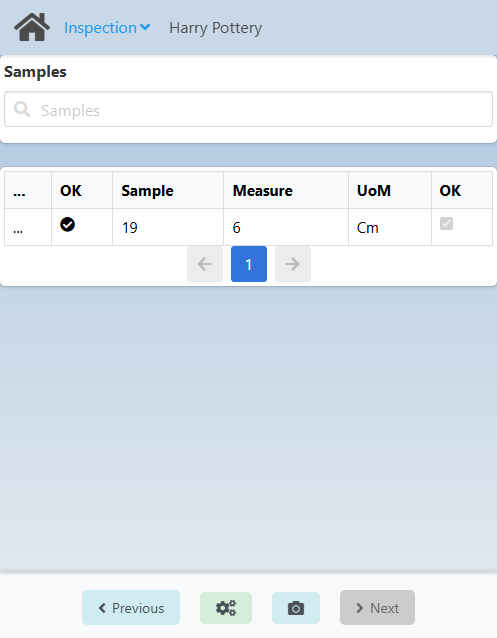
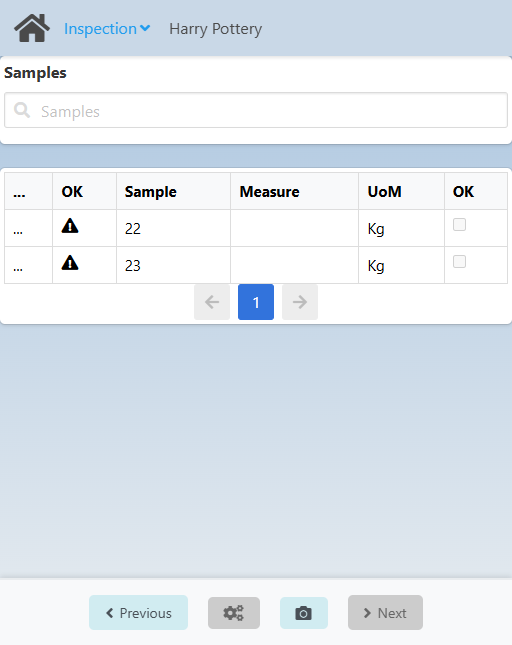
Update Inspection with new changes

diff --git a/docs/core_functions/inspection.md b/docs/core_functions/inspection.md
@@ -154,7 +154,9 @@ On this modal you can see and update other information on a **sample**.
 You can give a sample up to two release reasons using the **Release 1** and **Release 2** fields.
 
 :::info
-If you set **Release 1** to either **Released** or **Locked**, the **sample** will go away as completed.
+If you set **Release 1** to either **Released**, the sample will be released and removed from the list. You can only release it from here if the sample does not have measurements already saved.
+
+If you set **Release 1** to either **Locked**, the sample will be locked and removed from the list.
 :::
 
 **Release 2** can only be checked when **Release 1** is set to **Released.**
@@ -178,7 +180,6 @@ On this screen you can see a summary of the **tests** assigned to the selected s
 ![Tests summary screen](./img-inspection/sflow-tests-summary-screen.png)
 
 <CustomDetails summary="Table Reference">
-
 | Column   | Description                                                     |
 | -------- | --------------------------------------------------------------- |
 |          | Indication of passing                                           |
@@ -187,7 +188,6 @@ On this screen you can see a summary of the **tests** assigned to the selected s
 | Measure  | Value taken.                                                    |
 | UoM      | Unit of Measure, e.g. cm.                                       |
 | OK       | Indication of passing.                                          |
-
 </CustomDetails>
 
 You can use the search box on the top of the screen to filter tests by the **Pos** and **QC Order** values.
@@ -202,19 +202,19 @@ On the **Measurement** tab you can input the results for the test on a specific 
 
 ![Unique test summary measurement tab modal](./img-inspection/sflow-unique-test-sumamary-measurement-tab-modal.png)
 
-First, input the result that you got for this test. Use the **Value** field for that. Some tests will give you the conditions to pass. When the **value** meets those, the **OK** checkbox will automatically be ticked. You can always check/uncheck it manually.
+First, input the result that you got for this test. Use the **Value** field for that. Some tests will give you the conditions to pass. When the **value** meets those, the **OK** checkbox will automatically be ticked. This will depend on the inspection plan.
+
+:::info
+If you give **OKs** to all the tests for a sample, it will be **released** and removed from the list.
+:::
 
 Use the **Blockage Reason** field for giving the sample a reason for a blockage by choosing one of the options. For giving it extra comments using the <IIcon icon="ion:information-sharp" width="17" height="17"/> field below it.
 
 :::info
-If you give **OKs** or **Blockage Reasons** to all the tests for a sample, the sample will go away as completed.
+If you give **Blockage Reasons** to at least one test for a sample, it will be **locked** and removed from the list.
 :::
 
 You can also give the sample a **Valuation** from the list of options and extra information.
-
-:::danger[development]
-The **Valuation** field is yet to be configured.
-:::
 
 If you want to close the modal without making any changes, click the <IIcon icon="zondicons:close-solid" width="17" height="17"/> or **Cancel** buttons.
 
@@ -228,7 +228,7 @@ You can also add pictures as proof for the tests that were applied. For that, cl
 
 <CustomDetails summary="Add Picture Modal">
 
-On this modal you can **take a picture** of the samples, **link it** to the QC Order and **print a report**.
+On this modal you can **take a picture** of the samples and **link it** to the QC Order.
 
 First, you need to give the picture a name and then click **Confirm**.
 
@@ -242,7 +242,9 @@ If you want to close any of the modals without saving anything, click the <IIcon
 
 </CustomDetails>
 
-Once you are done with all the samples in the QC Order, click the <IIcon icon="fa:gears" width="17" height="17"/> button at the bottom to go to the [Create Activity](./inspection.md#create-activity) screen.
+Once you are done here, click **Previous** at the bottom to go back to the [Sample: Samples Summary](./inspection.md#sample-samples-summary) screen and continue with other samples, if applicable.
+
+Once there are no more samples left, you will be automatically taken to the [Final QC Order Summary](./inspection.md#final-qc-order-summary) screen.
 
 ### Test: Tests Summary
 
@@ -251,7 +253,6 @@ On this screen you can see a summary of the **tests** associated with the select
 ![Tests summary screen](./img-inspection/tflow-tests-summary-screen.png)
 
 <CustomDetails summary="Table Reference">
-
 | Column      | Description                                                 |
 | ----------- | ----------------------------------------------------------- |
 |             | Action button for opening the Test: Extended Summary modal. |
@@ -259,7 +260,6 @@ On this screen you can see a summary of the **tests** associated with the select
 | T           | Type of the test.                                           |
 | QC Order    | Name of the test.                                           |
 | Methodology | Description of how the test works.                          |
-
 </CustomDetails>
 
 You can use the search box on the top of the screen to filter tests by the **Pos** and **QC Order** values.
@@ -276,9 +276,7 @@ If you want to close the modal, click the <IIcon icon="zondicons:close-solid" wi
 
 </CustomDetails>
 
-Click on any other columns of a test to go to the [Samples](./inspection.md#tf-samples-summary) screen for it.
-
-Once you are done with all the tests for all the samples in the QC Order, click the <IIcon icon="fa:gears" width="17" height="17"/> button at the bottom to go to the [Create Activity](./inspection.md#create-activity) screen.
+Click on any other columns of a test to go to the [Test: Samples Summary](./inspection.md#test-samples-summary) screen for it.
 
 ### Test: Samples Summary
 
@@ -286,20 +284,14 @@ On this screen you can see a summary of the **samples** for which the selected t
 
 ![Test flow: samples summary measurement](./img-inspection/tflow-samples-summary-screen.png)
 
-:::danger[development]
-The OK column is repeated.
-:::
-
 <CustomDetails summary="Table Reference">
-
 | Column                                                     | Description                                                       |
 | ---------------------------------------------------------- | ----------------------------------------------------------------- |
-| <IIcon icon="pepicons-pop:dots-x" width="17" height="17"/> | Action button for opening the Sample: Extended Information modal. |
+| <IIcon icon="pepicons-pop:dots-x" width="17" height="17"/> | Action button for opening the **Sample: Extended Information modal**. |
 | Sample                                                     | ID of the sample.                                                 |
 | Measure                                                    | Value taken.                                                      |
 | UoM                                                        | Unit of Measure, e.g. cm.                                         |
 | OK                                                         | Indication of passing.                                            |
-
 </CustomDetails>
 
 You can use the search box on the top of the screen to filter samples by the **Sample** value.
@@ -315,11 +307,9 @@ On this modal you can see and update other information on a **sample**.
 You can give a sample up to two release reasons using the **Release 1** and **Release 2** fields.
 
 :::info
-If you set **Release 1** to either **Released** or **Locked**, the **sample** will go away as completed.
-:::
+If you set **Release 1** to either **Released**, the sample will be released and removed from the list. You can only release it from here if the sample does not have measurements already saved.
 
-:::danger[development]
-In **Release 1**, the options **Manually Locked** and **Manually Reopen** seem to not be working.
+If you set **Release 1** to either **Locked**, the sample will be locked and removed from the list.
 :::
 
 **Release 2** can only be checked when **Release 1** is set to **Released.**
@@ -328,19 +318,13 @@ Use the **Blockage Reason** field for giving the sample a reason for a blockage 
 
 You can also give the sample a **Valuation** from the list of options and extra information.
 
-:::danger[development]
-The **Valuation** field is yet to be configured.
-:::
-
 If you want to close the modal without making any changes, click the <IIcon icon="zondicons:close-solid" width="17" height="17"/> or **Cancel** buttons.
 
 Click **Save** to save the changes and close the modal.
 
 </CustomDetails>
 
-Click on any columns of a sample to open the **Test: Extended Information** modal.
-
-
+Click on any of the other columns of a sample to open the **Test: Extended Information** modal.
 
 <CustomDetails summary="Test: Extended Information Modal">
 
@@ -350,19 +334,19 @@ On the **Measurement** tab you can input the results for the test on a specific 
 
 ![Test flow: unique test extended information modal](./img-inspection/tflow-unique-test-information.png)
 
-First, input the result that you got for this test. Use the **Value** field for that. Some tests will give you the conditions to pass. When the **value** meets those, the **OK** checkbox will automatically be ticked. You can always check/uncheck it manually.
+First, input the result that you got for this test. Use the **Value** field for that. Some tests will give you the conditions to pass. When the **value** meets those, the **OK** checkbox will automatically be ticked. This will depend on the inspection plan.
+
+:::info
+If you give **OKs** to all the tests for a sample, it will be **released** and removed from the list.
+:::
 
 Use the **Blockage Reason** field for giving the sample a reason for a blockage by choosing one of the options. For giving it extra comments using the <IIcon icon="ion:information-sharp" width="17" height="17"/> field below it.
 
 :::info
-If you give **OKs** or **Blockage Reasons** to all the tests for a sample, the sample will go away as completed.
+If you give **Blockage Reasons** to at least one test for a sample, it will be **locked** and removed from the list.
 :::
 
 You can also give the sample a **Valuation** from the list of options and extra information.
-
-:::danger[development]
-The **Valuation** field is yet to be configured.
-:::
 
 If you want to close the modal without making any changes, click the <IIcon icon="zondicons:close-solid" width="17" height="17"/> or **Cancel** buttons.
 
@@ -370,13 +354,13 @@ Click **Save** to save the changes and close the modal.
 
 </CustomDetails>
 
-You will be seeing the results reflected on the table for each of the samples selected.
+You will be seeing the results reflected on the table for each of the samples modified.
 
 You can also add pictures as proof for the tests that were applied. For that, click the <IIcon icon="mdi:camera" width="17" height="17"/> button at the bottom to open the **Add Picture** modal.
 
 <CustomDetails summary="Add Picture Modal">
 
-On this modal you can **take a picture** of the samples, **link it** to the QC Order and **print a report**.
+On this modal you can **take a picture** of the samples and **link it** to the QC Order.
 
 First, you need to give the picture a name and then click **Confirm**.
 
@@ -390,7 +374,19 @@ If you want to close any of the modals without saving anything, click the <IIcon
 
 </CustomDetails>
 
-Once you are done with all the samples under the selected test, click the **Previous** button at the bottom to go to the [Tests](./inspection.md#tf-tests-summary) screen and continue with other tests, if appicable.
+Once you are done here, click the **Previous** button at the bottom to go back to the [Test: Tests Summary](./inspection.md#test-tests-summary) screen and continue with other tests, if applicable.
+
+Once there are no more samples left, you will be automatically taken to the [Final QC Order Summary](./inspection.md#final-qc-order-summary) screen.
+
+### Final QC Order Summary
+
+On this screen you can see a **summary** of the QC order after being done with all the samples.
+
+![Final QC order summary screen](./img-inspection/final_qc_order_summary_screen.png)
+
+If you want to create an activity for the QC order now that you are done, click the <IIcon icon="fa:gears" width="17" height="17"/> button at the bottom to go to the [Create Activity](./inspection.md#create-activity) screen.
+
+If not, click **Next** at the bottom to go to the [Home](./inspection.md#qc-order-selection) screen for you to start a new inspection.
 
 ### Create Activity
 
@@ -457,11 +453,3 @@ The title of the modal does not match its functionality. **~User~** <IIcon icon=
 And  last but not least, you can use the **Comment** field to add extra information on the process.
 
 Once you are done, click **Next** to create the corresponding **activity** (do not forget to take note of it) and to go to the [Home](./inspection.md#qc-order-selection) screen for you to start a new inspection.
-
-:::danger[development]
-After the activity is created, the user is taken back to the previous screen, instead of the [Home](./inspection.md#qc-order-selection) screen.
-:::
-
-:::danger[development]
-Multiple activities can be created for the same QC order, instead of just one.
-:::
